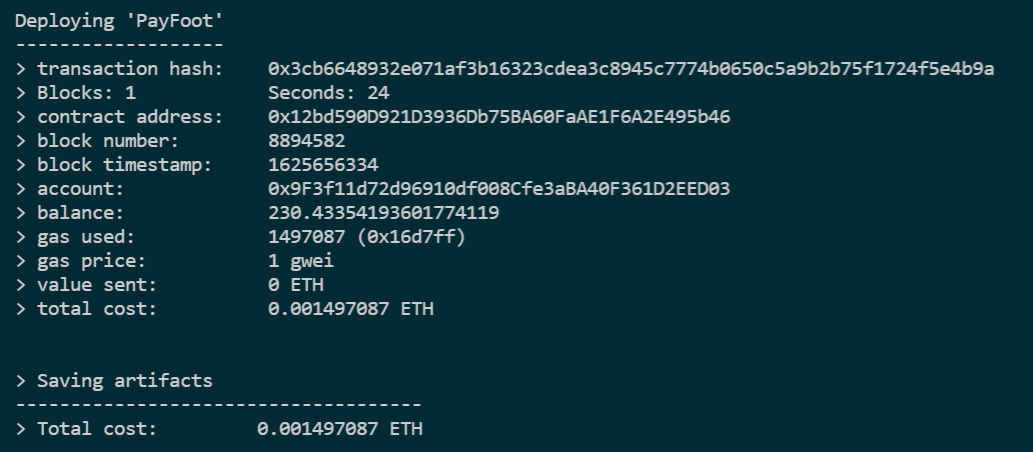
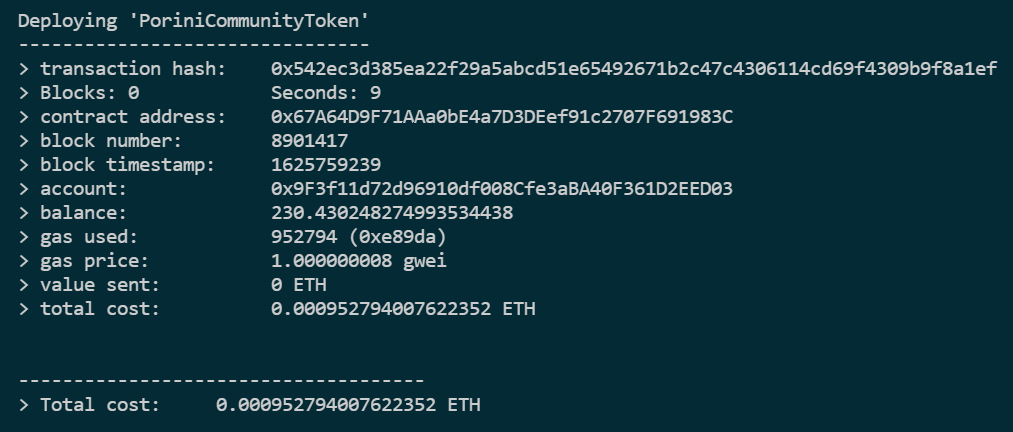
Test deployments

Changed region(s): [[0.0, 0.0301, 0.9793, 0.7523], [0.0, 0.8125, 0.4896, 0.963]]

diff --git a/scripts/sign-data.js b/scripts/sign-data.js
@@ -6,7 +6,7 @@ let Web3 = require('web3'); // Add the web3 node package
 let ethUtil = require('ethereumjs-util'); // 'ethereumjs-util' is a collection of utility functions for Ethereum
 let sigUtil  = require('eth-sig-util'); // 'eth-sig-util' is a small collection of Ethereum signing functions
 const config = require('./data-config.json'); // Include the network-specific configurations
-const contractAbi = require('./ABI/PayFoot.json'); // Import the contract ABI of the smart contract
+const contractAbi = require('./ABI/PoriniCommunityToken.json'); // Import the contract ABI of the smart contract
 const BigNumber = require('bignumber.js'); // Add the bignumber.js node package
 const { EIP712Domain } = require('./helper.js'); // Add some helpers
 

diff --git a/README.md b/README.md
@@ -110,16 +110,16 @@ Go to the corresponding Etherscan link, e.g. https://rinkeby.etherscan.io/addres
 
 ## Test Deployments
 The smart contract [`ImpactDollar.sol`](https://gitlab.appswithlove.net/green_list_market/impact-dollar-token-contract/-/blob/main/contracts/ImpactDollar.sol) has been deployed across all the major test networks:
-- **Rinkeby:** [0xBeA3fCC51e031a9A8c77C0D8CB9873FeBb783045](https://rinkeby.etherscan.io/address/0xbea3fcc51e031a9a8c77c0d8cb9873febb783045)
-- **Ropsten:** [0xbB5C47840930Af779042b6209c064B8Ac9247848](https://ropsten.etherscan.io/address/0xbB5C47840930Af779042b6209c064B8Ac9247848)
-- **Kovan:** [0x20EC414D11C2C1C9c332083284C1f99C1365A645](https://kovan.etherscan.io/address/0x20ec414d11c2c1c9c332083284c1f99c1365a645)
-- **Goerli:** [0x64e9465B3B965e10f8C093729c9280aF9f1D9648](https://goerli.etherscan.io/address/0x64e9465B3B965e10f8C093729c9280aF9f1D9648)
+- **Rinkeby:** [0x67A64D9F71AAa0bE4a7D3DEef91c2707F691983C](https://rinkeby.etherscan.io/address/0x67A64D9F71AAa0bE4a7D3DEef91c2707F691983C)
+- **Ropsten:** [0xeb8647302b2F97653452Ce1582E046e205D515bc](https://ropsten.etherscan.io/address/0xeb8647302b2F97653452Ce1582E046e205D515bc)
+- **Kovan:** [0xbB5C47840930Af779042b6209c064B8Ac9247848](https://kovan.etherscan.io/address/0xbB5C47840930Af779042b6209c064B8Ac9247848)
+- **Goerli:** [0x667483ec1078c64f8D7e35B49152C3c2C87cCB56](https://goerli.etherscan.io/address/0x667483ec1078c64f8D7e35B49152C3c2C87cCB56)
 
 ## Production Deployments on SustainabilityChain
 The smart contract [`ImpactDollar.sol`](https://gitlab.appswithlove.net/green_list_market/impact-dollar-token-contract/-/blob/main/contracts/ImpactDollar.sol) has been deployed to the SustainabilityChain network with [Remix<sup>*</sup> ](http://remix.ethereum.org) and signed with the ImpactDollar hardware wallet (Ledger Nano S):
-- Contract creation transaction hash: [0xf6aaa03f3f3433db11f4b862ed7e424b1c24e0c59f1b9fe84cadf062bafdcde6](https://expedition.dev/tx/0xf6aaa03f3f3433db11f4b862ed7e424b1c24e0c59f1b9fe84cadf062bafdcde6?network=Porini)
-- **Contract address:** [0xfEC6Ae9cA6656e534E8d2B8813718401C7823079](https://expedition.dev/address/0xfEC6Ae9cA6656e534E8d2B8813718401C7823079?network=Porini)
-- **Contract admin:** [0xD4095bA16e4a10eA5E2d6901705713BfD61C3E2d](https://expedition.dev/address/0xD4095bA16e4a10eA5E2d6901705713BfD61C3E2d?network=Porini)
+- Contract creation transaction hash: TBD
+- **Contract address:** TBD
+- **Contract admin:** TBD
 - Contract Application Binary Interface (ABI): Can be downloaded from the [snippet](https://gitlab.appswithlove.net/green_list_market/impact-dollar-token-contract/-/snippets/18). This file was copied from Remix after compilation.
 > **Note 1:** Make sure that you always copy the full smart contract ABI and not just one of the inherited interfaces!
 
